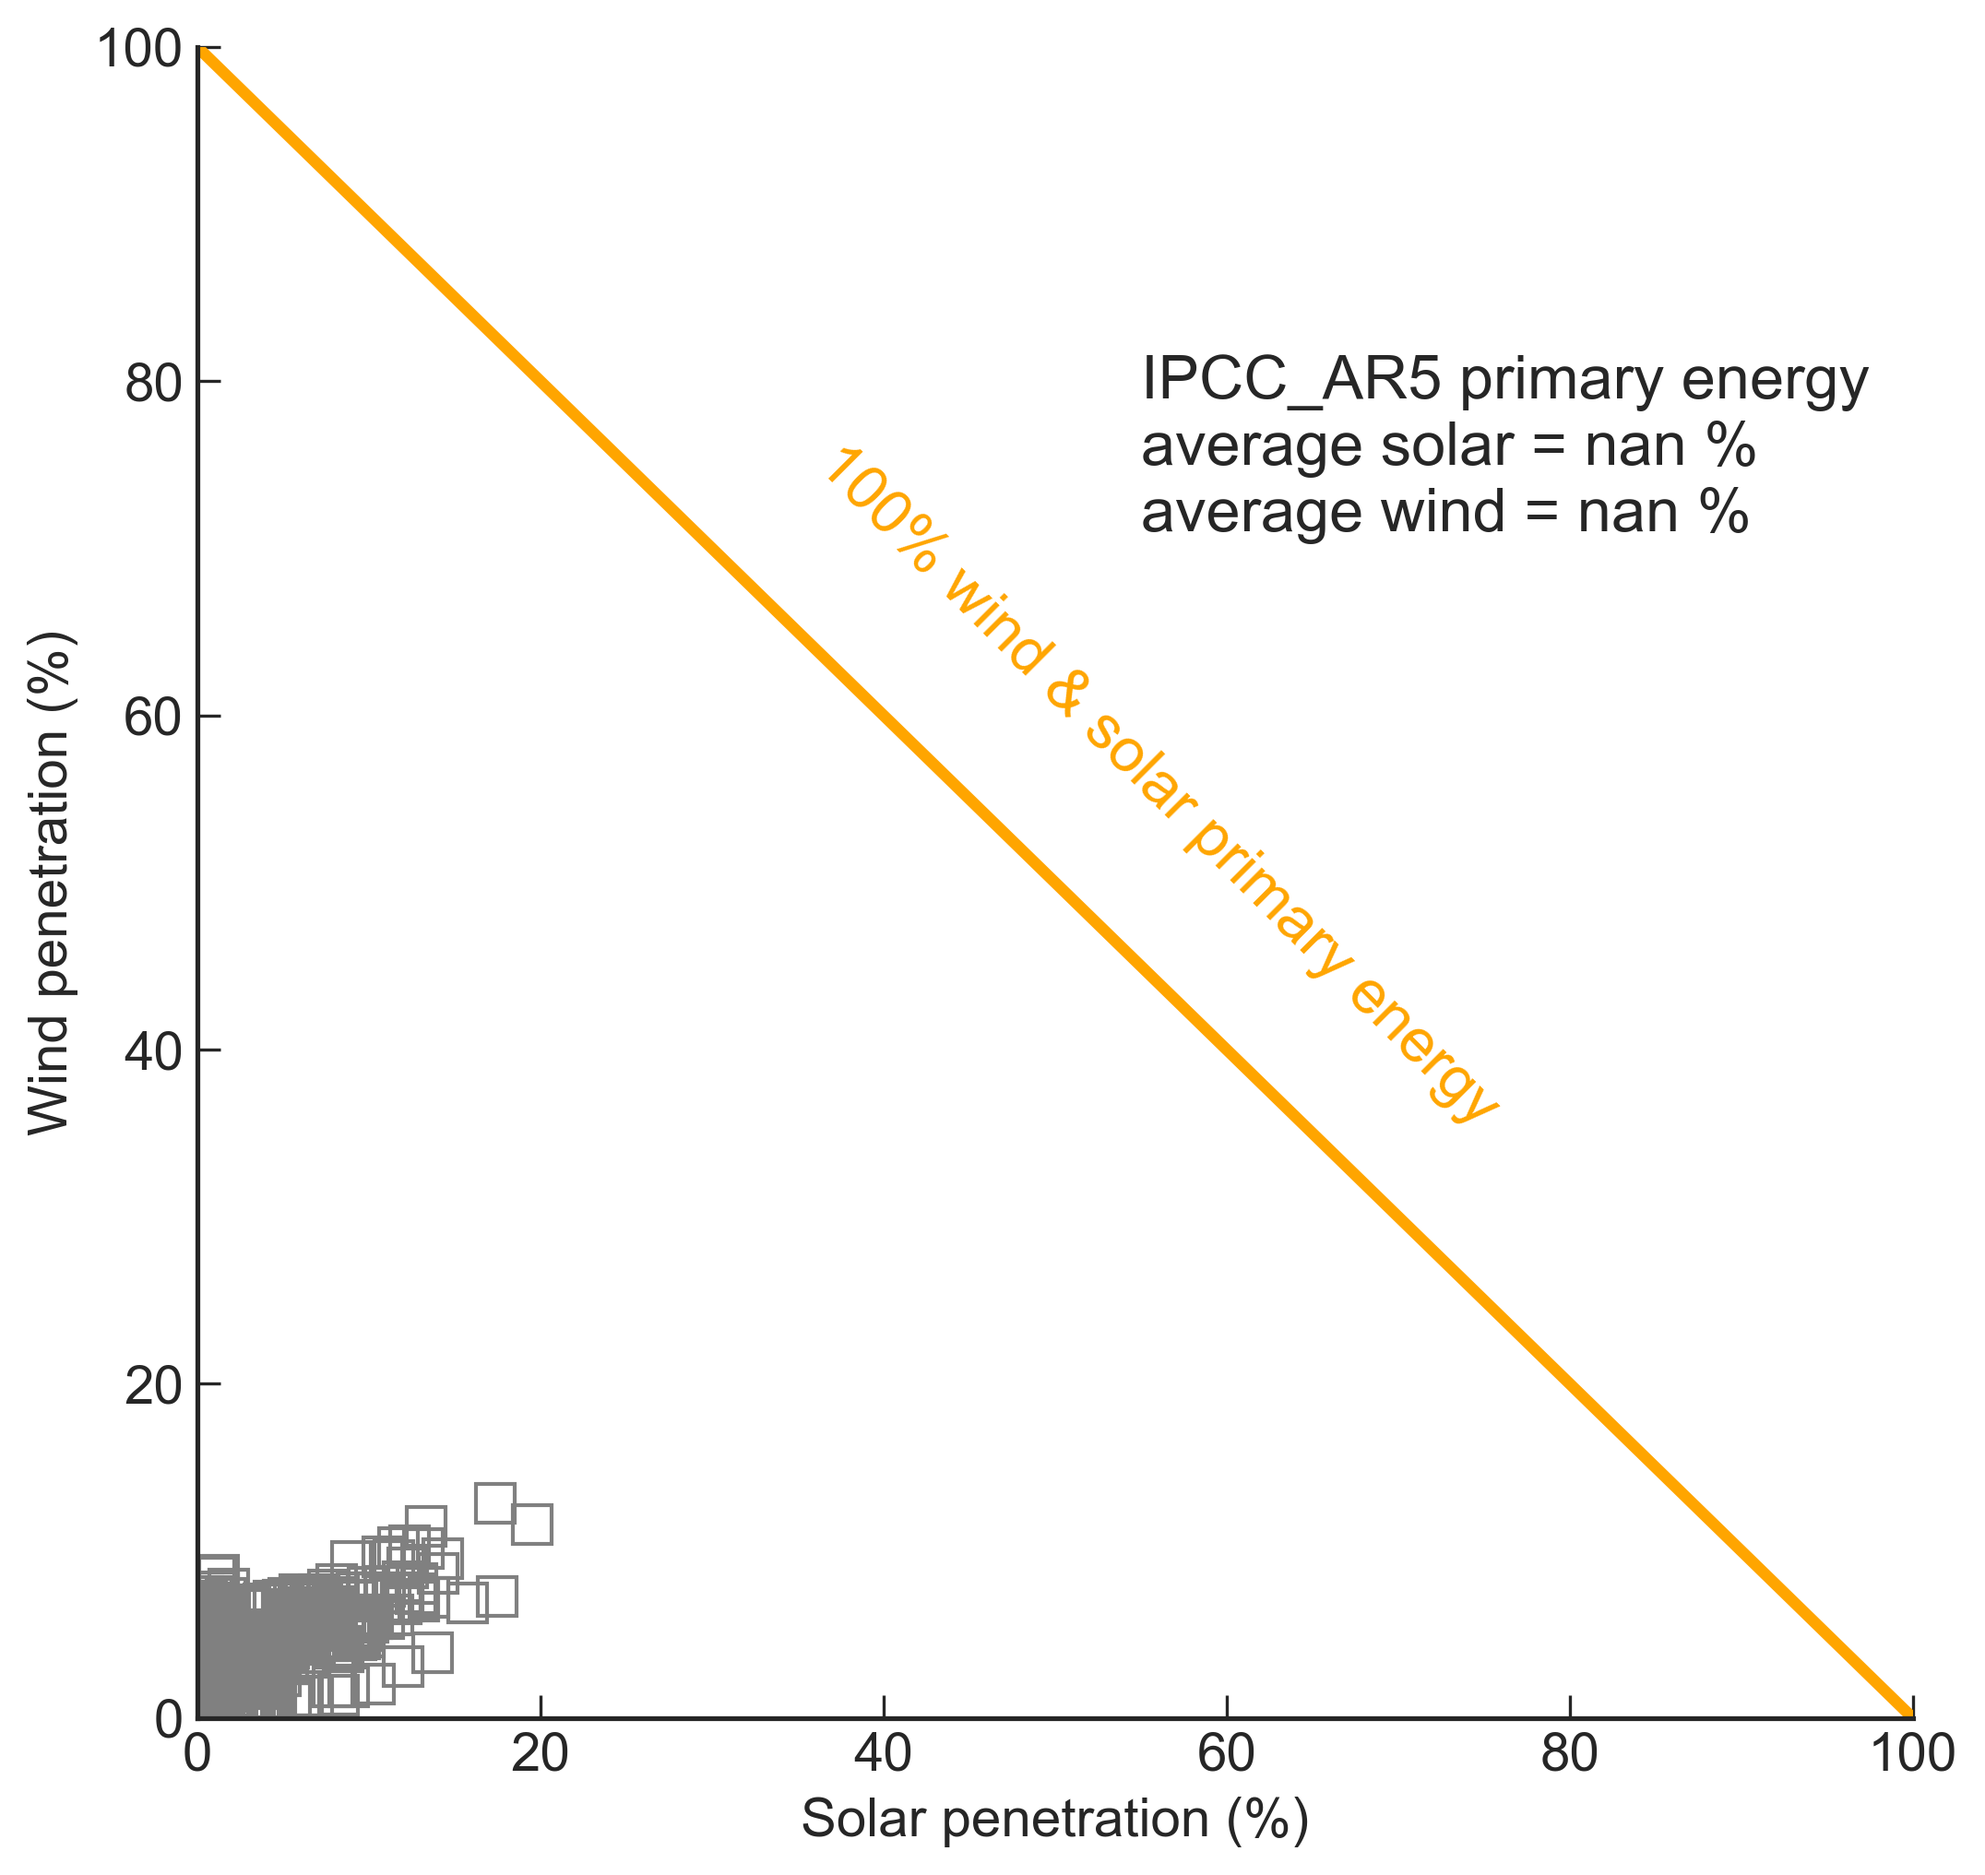
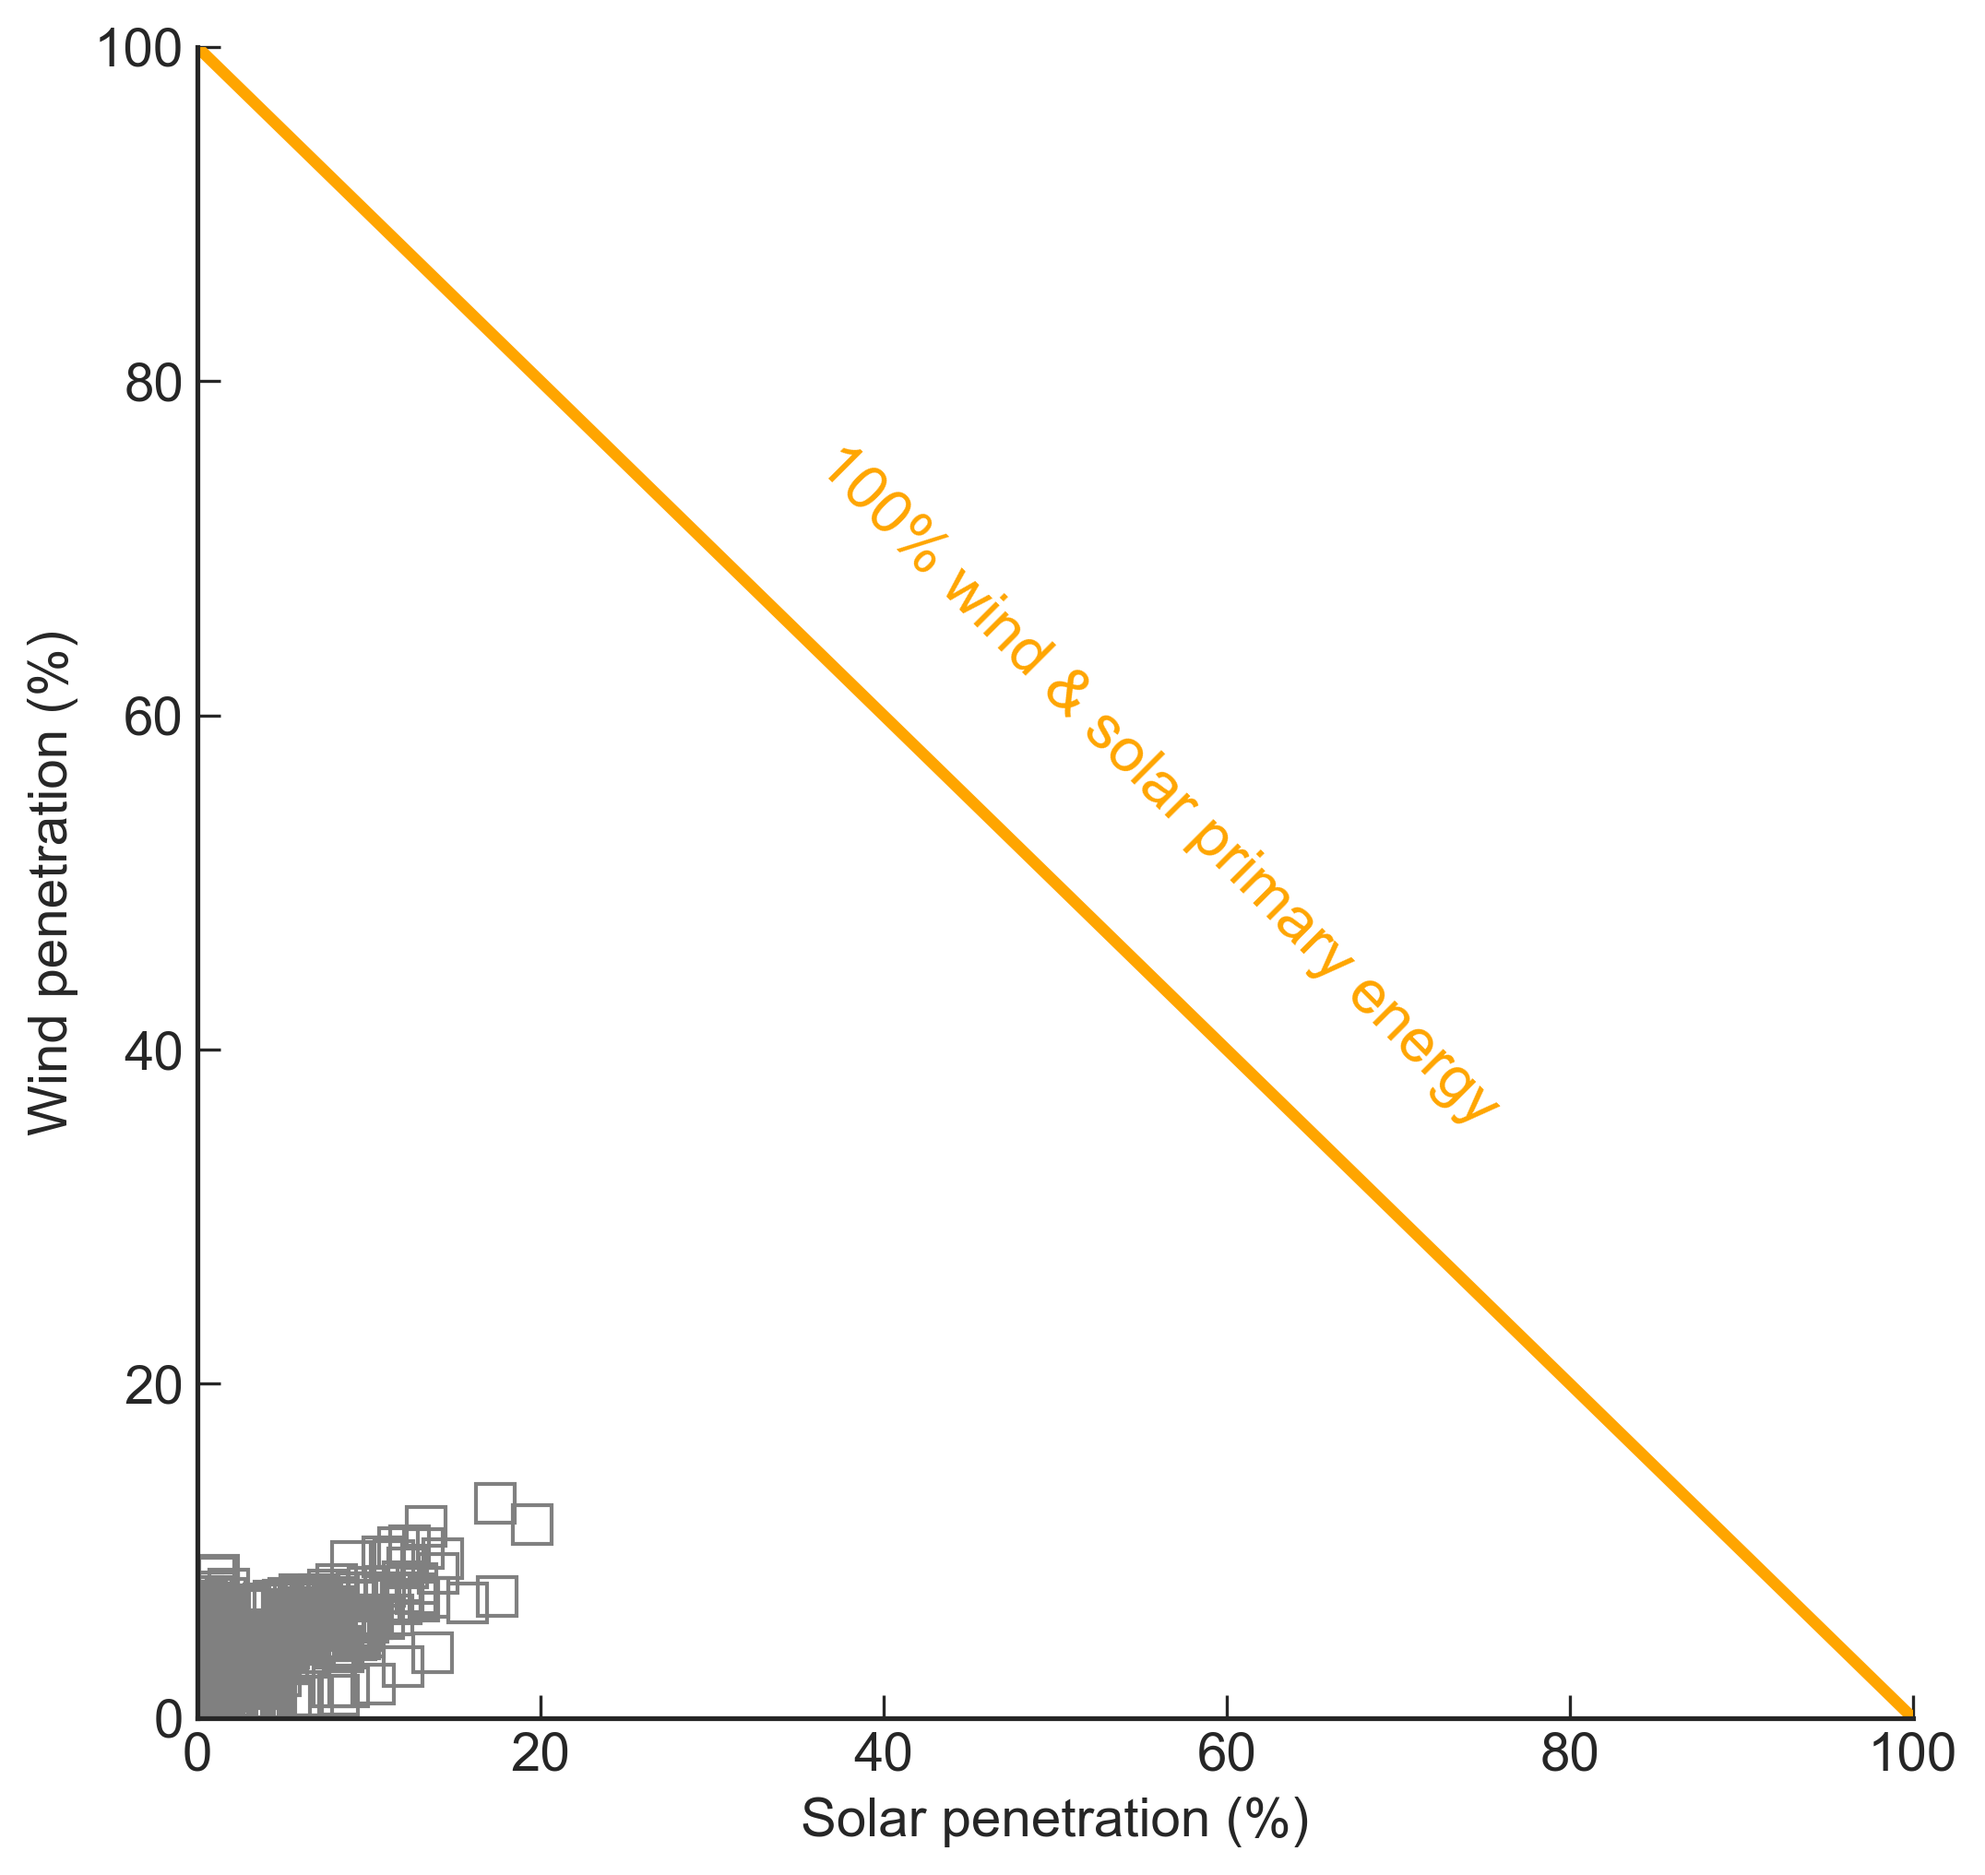
add Pursiheimo and Jacobson data

Changed region(s): [[0.5604, 0.1859, 0.934, 0.3099]]

diff --git a/PV_and_wind_in_IAM.py b/PV_and_wind_in_IAM.py
@@ -10,8 +10,8 @@ import matplotlib.pyplot as plt
 import matplotlib.gridspec as gridspec
 idx = pd.IndexSlice
 
-document='IPCC_SR1.5'
-option='electricity'
+document='IPCC_AR5'
+option='primary energy'
 year='2050'
 region='World'
 # temp threshold, only plots scenario with lower tempt
@@ -130,9 +130,9 @@ for scenario in scenarios_clean:
 print('average solar penetration = ' + str(np.array(solar_ratio).mean())+ ' %')
 print('average wind penetration = ' + str(np.array(wind_ratio).mean())+ ' %')
 print('number of scenarios included = '+ str(len([s for s in solar_ratio if str(s) != 'nan'])))
-ax1.text(55,79,document + ' ' + option, fontsize=16)
-ax1.text(55,75,'average solar = ' + str(np.array(solar_ratio).mean().round(1))+ ' %', fontsize=16)
-ax1.text(55,71,'average wind = ' + str(np.array(wind_ratio).mean().round(1))+ ' %', fontsize=16)
+# ax1.text(55,79,document + ' ' + option, fontsize=16)
+# ax1.text(55,75,'average solar = ' + str(np.array(solar_ratio).mean().round(1))+ ' %', fontsize=16)
+# ax1.text(55,71,'average wind = ' + str(np.array(wind_ratio).mean().round(1))+ ' %', fontsize=16)
 
 #%%
 if option=='electricity':
@@ -144,7 +144,11 @@ if option=='electricity':
 penetration=pd.read_csv('data/solar_wind_electricity_penetration.csv', 
                        index_col=0, sep=',')
 if option=='electricity':
+    if document=='IPCC_AR5':
+        ax1.text(18, 8, 'IPCC 5$^{th}$AR', color='dimgray', fontsize=12)
     
+    if document=='IPCC_SR1.5':
+        ax1.text(18, 8, 'IPCC SR 1.5$^{\circ}$C', color='dimgray', fontsize=12)
     #PRIMES (Clean energy for all Europeans)
     for EUscenario in ['Baseline','EE', 'CIRC', 'ELEC', 'H2', 'P2X', 'COMBO', '1.5TECH', '1.5LIFE', ]:
         ax1.plot(penetration.loc[EUscenario,'solar'], penetration.loc[EUscenario,'wind'], 
@@ -180,32 +184,47 @@ if option=='electricity':
     #Victoria
     ax1.plot(penetration.loc['Victoria','solar'], penetration.loc['Victoria','wind'], 
                   marker='o', markersize=10, color=color_1) 
-    ax1.text(40, 42, 'Victoria', color=color_1, fontsize=12)
+    ax1.text(40, 42, 'Victoria [ref]', color=color_1, fontsize=12)
 
     #Child
     ax1.plot(penetration.loc['Child','solar'], penetration.loc['Child','wind'], 
               marker='o', markersize=10,  markeredgecolor=color_1,
-                  markerfacecolor='white') 
-    ax1.text(42, 31, 'Child', color=color_1, fontsize=12)
+                  markerfacecolor=color_1) 
+    ax1.text(41, 31, 'Child [ref]', color=color_1, fontsize=11)
 
     #Bogdanov
     ax1.plot(penetration.loc['Bogdanov','solar'], penetration.loc['Bogdanov','wind'], 
                   marker='s', markersize=10, 
                   markeredgecolor=color_1,
                   markerfacecolor='white') 
-    ax1.text(62, 16, 'Bogdanov', color=color_1, fontsize=12)
+    ax1.text(62, 16, 'Bogdanov [ref]', color=color_1, fontsize=12)
    
     #Solar Power Europe
     ax1.plot(penetration.loc['SolarPower','solar'], penetration.loc['SolarPower','wind'], 
                   marker='o', markersize=10, 
                   markeredgecolor=color_1,
+                  markerfacecolor=color_1) 
+    ax1.text(57.5, 29, 'SPE [ref]', color=color_1, fontsize=12)
+    
+    
+    #Pursiheimo
+    ax1.plot(penetration.loc['Pursiheimo','solar'], penetration.loc['Pursiheimo','wind'], 
+                  marker='s', markersize=10, 
+                  markeredgecolor='black',
                   markerfacecolor='white') 
-    ax1.text(58.5, 29, 'SPE', color=color_1, fontsize=12)
+    ax1.text(69, 8, 'Pursiheimo [ref]', color='black', fontsize=12)
+    
+    #Jacobson
+    ax1.plot(penetration.loc['Jacobson','solar'], penetration.loc['Jacobson','wind'], 
+                  marker='s', markersize=10, 
+                  markeredgecolor='black',
+                  markerfacecolor='white') 
+    ax1.text(42, 33.5, 'Jacobson [ref]', color='black', fontsize=11)
     
     #Creutzig
     ax1.annotate("", xy=(30, 4), xytext=(50,4),
                  arrowprops=dict(arrowstyle="<->", color='black'))
-    ax1.text(34.5, 5, 'Creutzig', color='black', fontsize=12)
+    ax1.text(32, 1.5, 'Creutzig [ref]', color='black', fontsize=12)
 
 
 plt.savefig('figures/pv_and_wind_in_IAM_' + option + '_' + document + '.png', dpi=300, bbox_inches='tight')

diff --git a/efficiency_cost_materials.py b/efficiency_cost_materials.py
@@ -67,8 +67,17 @@ for i,document in enumerate(['IPCC_AR5', 'IPCC_SR1.5']):
 
 ax0.set_ylabel('Global PV electricity in 2050 (PWh/year)', fontsize=14)    
 
+
+#Kurtz_Revisiting the Terawatt challenge
+ax0.plot([3], 
+          [x*kW2kWh/1000 for x in [37]], 
+          color=color_1, 
+          linewidth=4, 
+          marker='*',
+          markersize=14)
+
 #Haegel_2019
-ax0.plot([3, 3], 
+ax0.plot([4, 4], 
           [x*kW2kWh/1000 for x in [30,70]], 
           color=color_1, 
           linewidth=4, 
@@ -76,12 +85,13 @@ ax0.plot([3, 3],
           markersize=14)
 
 #Breyer
-ax0.plot([4, 4], 
+ax0.plot([5, 5], 
           [x*kW2kWh/1000 for x in [22,63.4]],
           color=color_1, 
           linewidth=4, 
           marker='_',
           markersize=14,)
+
 
 parts=ax0.violinplot(data_to_plot, 
                      showmedians=False, 
@@ -94,59 +104,15 @@ for pc in parts['bodies']:
     pc.set_alpha(1)
     
 
-# #Creutzig
-# ax0.plot([3, 3], 
-#           [x*EJ2PWh for x in [8, 35]], 
-#           color='black', 
-#           linewidth=4, 
-#           marker='_',
-#           markersize=14,
-
-# )
-
-# ax0.plot([4, 4], 
-#           [x*EJ2PWh for x in [67, 130]], 
-#           color='black', 
-#           linewidth=4, 
-#           marker='_',
-#           markersize=14)
-
-# #van Vuuren
-# ax0.plot([5, 5], 
-#          [x*EJ2PWh for x in [32, 135]], 
-#           color='black', 
-#           linewidth=4, 
-#           marker='_',
-#           markersize=14)
-
-# #Roglej
-# ax0.plot([6, 6], 
-#          [x*EJ2PWh for x in [89, 230]], 
-#           color='black',
-#           linewidth=4, 
-#           marker='_',
-#           markersize=14)
-# ax0.plot([7, 7], 
-#          [x*EJ2PWh for x in [20, 300]], 
-#           color='black', 
-#           linewidth=4, 
-#           marker='_',
-#           markersize=14,
-#           linestyle='dotted')
-
 
 ax0.text(0.45, 1.01, 'A', transform=ax0.transAxes, fontsize=14)
-ax0.set_xticks([1, 2, 3, 4])
+ax0.set_xticks([1, 2, 3, 4, 5])
 ax0.set_xticklabels(['IPCC \n5$^{th}$AR \n[ref]', 
                      'IPCC \nSR1.5$^{\circ}$C \n[ref]', 
+                     'Kurtz \n[ref]',
                      'Haegel \n[ref]', 
-                     'Breyer \n[ref]', ], fontsize=12)
+                     'Breyer \n[ref]',], fontsize=12)
 
-# ax0.annotate('IAMs', xy=(0.65, 0.89), xytext=(0.65, 0.94), 
-#             xycoords='axes fraction', 
-#             fontsize=12, ha='center', va='bottom',
-#             #bbox=dict(boxstyle='square', fc='white'),
-#             arrowprops=dict(arrowstyle='-[, widthB=6.0, lengthB=0.5', lw=2.0))
 ax0.set_ylim([0, 100])
 
 #%%
@@ -199,13 +165,13 @@ ax1.grid(color='grey', linestyle='--', axis='y', which='both')
 ax1.set_ylabel('Efficiency (%)', fontsize=14)    
 ax1.set_ylim(12,30)
 ax1.set_xlim(2005, 2045)
-ax1.text(2032, 26.5, '?', 
+ax1.text(2027, 26.5, '?', 
          fontsize=60,
          color='silver')
-ax1.text(2027, 27, 'multijunction \n   perovskite', 
+ax1.text(2023, 27, 'multijunction \n   perovskite', 
          fontsize=14,
              color=color_1)
-ax1.set_xlim([2005, 2040])
+ax1.set_xlim([2005, 2035])
 ax1.legend(fancybox='true', 
            fontsize=12, 
            loc='upper left', 
@@ -275,9 +241,9 @@ ax3.plot([2020, 2030, 2040, 2050],
           linewidth=3, color=color_2, linestyle='dashed', label='PRIMES')
 
 #ITPV 2017
-ax3.plot([2020,2030, 2040, 2050], 
-          [x/1000 for x in [573, 391, 302, 246]],
-          linewidth=3, color=color_1, label='ITPV2017')
+# ax3.plot([2020,2030, 2040, 2050], 
+#           [x/1000 for x in [573, 391, 302, 246]],
+#           linewidth=3, color=color_1, label='ITPV2017')
 #Breyer
 ax3.plot([2020, 2025, 2030, 2035, 2040, 2045, 2050], 
           [x/1000 for x in [431, 333, 275, 235, 204, 181, 164]],
@@ -307,7 +273,7 @@ ax3.set_yticks([0, 1, 2 ,3])
 ax3.set_yticklabels(['0','1','2','3'])
 
 ax3.text(2040, 2.2, 'IAMs', fontsize=12)
-ax3.annotate('PRIMES', xy=(2038, 0.6), xytext=(2042, 0.75), color=color_2,
+ax3.annotate('PRIMES', xy=(2038, 0.6), xytext=(2042, 0.7), color=color_2,
             arrowprops=dict(color=color_2, headwidth=0.1, width=0.1),)
 
 ax3.annotate('ITPV', xy=(2030, 0.25), xytext=(2020, 0.1), color=color_1,
